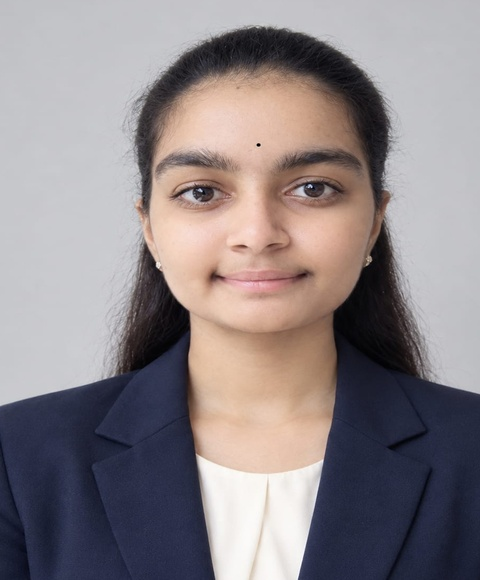
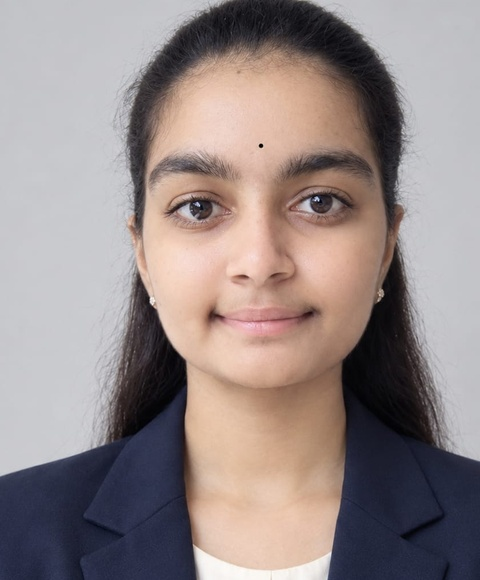
Updated portfolio design and images

diff --git a/assets/css/style.css b/assets/css/style.css
@@ -6,29 +6,30 @@
 @import url('https://fonts.googleapis.com/css2?family=Caveat:wght@600;700&family=Plus+Jakarta+Sans:wght@300;400;500;600;700;800&display=swap');
 
 :root {
-  --bg-dark: #000000;
-  --bg-card: rgba(12, 12, 18, 0.82);
-  --bg-card-hover: rgba(22, 18, 34, 0.94);
-  --bg-input: #09090e;
+  --bg-dark: #070913;
+  --bg-card: rgba(14, 18, 36, 0.75);
+  --bg-card-hover: rgba(22, 28, 56, 0.90);
+  --bg-input: #0b0f20;
   
-  --primary: #a855f7;
-  --primary-glow: rgba(168, 85, 247, 0.45);
-  --primary-light: #c084fc;
-  --primary-dark: #7c3aed;
+  --primary: #9d4edd;
+  --primary-glow: rgba(157, 78, 221, 0.45);
+  --primary-light: #c77dff;
+  --primary-dark: #7b2cbf;
   
   --accent-pink: #ec4899;
   --accent-gold: #f59e0b;
   --accent-green: #10b981;
   --accent-lime: #a3e635;
+  --accent-cyan: #38bdf8;
   
   --text-white: #ffffff;
-  --text-light: #e2e8f0;
+  --text-light: #e0e7ff;
   --text-muted: #94a3b8;
   --text-dim: #64748b;
   
   --border-subtle: rgba(255, 255, 255, 0.08);
-  --border-card: rgba(168, 85, 247, 0.22);
-  --border-glow: rgba(168, 85, 247, 0.55);
+  --border-card: rgba(157, 78, 221, 0.25);
+  --border-glow: rgba(157, 78, 221, 0.55);
   
   --radius-sm: 8px;
   --radius-md: 14px;
@@ -51,22 +52,23 @@
 html {
   scroll-behavior: smooth;
   font-size: 16px;
-  background-color: #000000;
+  background-color: #060814;
 }
 
 body {
   font-family: var(--font-sans);
-  background-color: #000000;
+  background-color: #060814;
   color: var(--text-light);
   line-height: 1.6;
   overflow-x: hidden;
   position: relative;
   min-height: 100vh;
   background-image: 
-    radial-gradient(circle at 85% 12%, rgba(124, 58, 237, 0.16) 0%, transparent 40%),
-    radial-gradient(circle at 10% 35%, rgba(147, 51, 234, 0.12) 0%, transparent 35%),
-    radial-gradient(circle at 90% 65%, rgba(139, 92, 246, 0.14) 0%, transparent 40%),
-    radial-gradient(circle at 20% 88%, rgba(124, 58, 237, 0.14) 0%, transparent 35%);
+    radial-gradient(circle at 85% 15%, rgba(123, 44, 191, 0.28) 0%, transparent 45%),
+    radial-gradient(circle at 15% 35%, rgba(37, 99, 235, 0.20) 0%, transparent 40%),
+    radial-gradient(circle at 80% 65%, rgba(157, 78, 221, 0.22) 0%, transparent 45%),
+    radial-gradient(circle at 20% 85%, rgba(79, 70, 229, 0.24) 0%, transparent 40%),
+    radial-gradient(ellipse 60% 50% at 50% 50%, rgba(15, 23, 42, 0.6) 0%, transparent 100%);
   background-attachment: fixed;
 }
 
